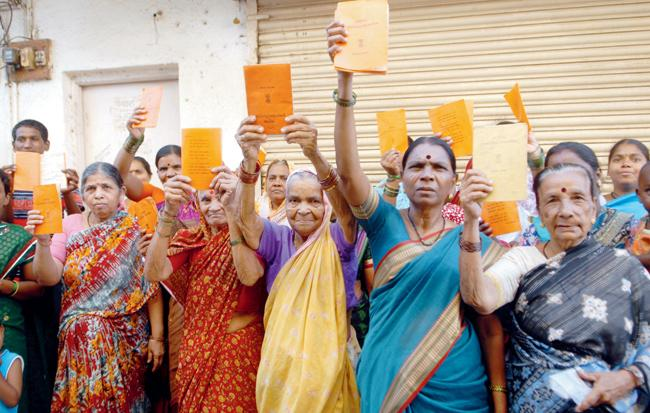
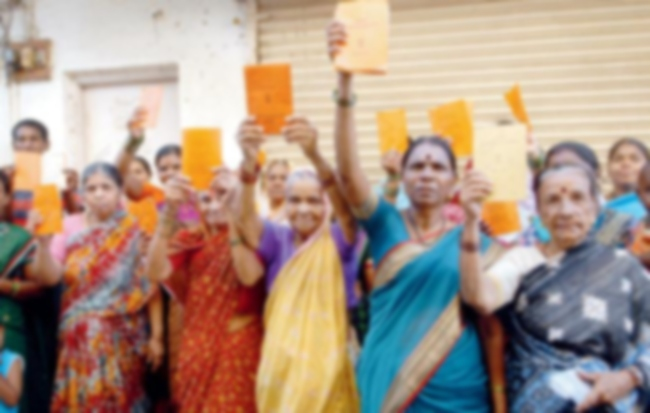
Login CSS done too

diff --git a/frontend/src/Login.css b/frontend/src/Login.css
@@ -1,125 +1,100 @@
-/* Ensure the login container is set up correctly */
-.login-container {
+/* Container for background image */
+.login-background {
+  background-image: url('loginbg.jpg'); /* Replace with the path to your background image */
+  background-size: cover; /* Cover the entire container */
+  background-position: center; /* Center the background image */
+  background-repeat: no-repeat; /* Do not repeat the background image */
+  min-height: 100vh; /* Ensure the container takes up the full viewport height */
   display: flex;
-  flex-direction: column;
-  align-items: center;
   justify-content: center;
-  min-height: 100vh;
-  padding: 5px;
+  align-items: center;
+  padding: 20px;
   box-sizing: border-box;
-  position: relative; /* Needed for absolute positioning of the pseudo-element */
-  overflow: hidden; /* Prevents any overflow of the pseudo-element */
+  position: relative; /* Position relative to use with pseudo-element */
 }
 
-/* Pseudo-element for the blurred background */
-.login-container::before {
+/* Pseudo-element to apply blur to the background */
+.login-background::before {
   content: '';
   position: absolute;
   top: 0;
   left: 0;
   width: 100%;
   height: 100%;
-  background-image: url('loginbg.jpg'); /* Ensure the correct path to your image */
-  background-repeat: no-repeat;
-  background-size: cover;
-  background-position: center;
-  background-attachment: fixed;
-  filter: blur(2px); /* Apply blur effect */
-  z-index: -1; /* Place the pseudo-element behind the content */
+  background: inherit; /* Use the same background image as the container */
+  filter: blur(10px); /* Apply blur effect */
+  z-index: -1; /* Place it behind the content */
 }
 
-/* Card styling */
+/* Styling for the login card */
 .login-card {
-  background: rgba(255, 255, 255, 0.9); /* Semi-transparent white background */
-  border-radius: 8px;
+  background-color: rgba(255, 255, 255, 0.9); /* Semi-transparent white background for readability */
+  border-radius: 10px;
   padding: 20px;
-  box-shadow: 0 4px 8px rgba(0, 0, 0, 0.1);
-  z-index: 1; /* Ensure card is above the blurred background */
+  box-shadow: 0 0 15px rgba(0, 0, 0, 0.3);
   width: 100%;
   max-width: 400px;
   box-sizing: border-box;
-  position: relative; /* Ensure relative positioning for z-index */
-}
-
-/* Styling for heading */
-h2 {
-  color: #007bff;
-  margin-bottom: 20px;
-  text-align: center; /* Center the heading */
-}
-
-/* Form styling */
-form {
   display: flex;
   flex-direction: column;
-  width: 100%;
+  align-items: center; /* Center all items horizontally */
+  justify-content: center; /* Center all items vertically */
+  position: relative; /* Ensure the card stays above the blurred background */
+  z-index: 1; /* Ensure the card is above the blurred background */
 }
 
-/* Styling for form elements */
-div {
-  margin-bottom: 15px;
+/* Header inside the card */
+.login-card h2 {
+  margin: 0 0 20px; /* Adjusted margin for spacing */
+  text-align: center; /* Center the header text */
 }
 
-label {
+/* Label styling */
+.login-card label {
   display: block;
-  margin-bottom: 5px;
+  margin: 15px 0 5px;
   font-weight: bold;
-  color: #333;
+  text-align: center; /* Center the label text */
 }
 
-input[type="text"],
-input[type="password"] {
-  width: 100%;
+/* Input fields styling */
+.login-card input[type="text"],
+.login-card input[type="password"] {
+  width: calc(100% - 20px); /* Ensure inputs fit within the card */
   padding: 10px;
-  border: 1px solid #ced4da;
+  border: 1px solid #ddd;
   border-radius: 5px;
-  font-size: 1rem;
-  box-sizing: border-box;
-  transition: border-color 0.3s ease;
+  margin-bottom: 15px;
+  box-sizing: border-box; /* Include padding and border in element's total width and height */
 }
 
-input[type="text"]:focus,
-input[type="password"]:focus {
-  border-color: #007bff; /* Blue border on focus */
+/* Error message styling */
+.error {
+  color: red;
+  margin-top: 10px;
+  font-weight: bold;
+  text-align: center; /* Center the error message */
 }
 
-button {
-  padding: 15px;
+/* Navigation buttons styling */
+.login-card button {
+  padding: 10px 20px;
   border: none;
   border-radius: 5px;
+  background-color: #007bff;
+  color: #fff;
   cursor: pointer;
-  font-size: 1rem;
-  transition: background-color 0.3s ease, transform 0.3s ease;
-}
-
-button[type="submit"] {
-  background-color: #007bff; /* Blue background */
-  color: white;
+  font-size: 16px;
   margin-top: 10px;
+  display: block;
+  width: 100%; /* Make buttons span the full width of the card */
 }
 
-button[type="submit"]:hover {
-  background-color: #0056b3; /* Darker blue */
-  transform: scale(1.05);
+.login-card button.reset {
+  background-color: #6c757d;
 }
 
-.secondary {
-  background-color: #e9ecef; /* Light gray background */
-  color: #495057;
-  margin: 5px auto; /* Center the button horizontally */
-  display: block; /* Ensure the button is treated as a block element */
-  text-align: center; /* Center the text inside the button */
-}
-
-.secondary:hover {
-  background-color: #ced4da; /* Slightly darker gray */
-}
-
-button:focus {
-  outline: none;
-}
-
-.button-group {
-  display: flex;
-  justify-content: center;
+/* Styling for submit button */
+.login-card button[type="submit"] {
+  background-color: #28a745;
 }

diff --git a/frontend/src/Login.jsx b/frontend/src/Login.jsx
@@ -1,5 +1,5 @@
 import React, { useState, useEffect } from 'react';
-import './Login.css';
+import './Login.css'; // Import the new CSS file
 
 const endpoint = "http://localhost:8000/data"; // Endpoint for fetching data
 
@@ -84,11 +84,10 @@ const LoginPage = () => {
     }
   };
 
-  
-  const handleResetPassword = () => {
-    // Redirect to reset password page or handle reset logic
-    window.location.href = '/reset-password'; // Replace with actual route
-  };
+  // const handleResetPassword = () => {
+  //   // Redirect to reset password page or handle reset logic
+  //   window.location.href = '/reset-password'; // Replace with actual route
+  // };
 
   const handleSignupRedirect = () => {
     // Redirect to signup page
@@ -96,42 +95,44 @@ const LoginPage = () => {
   };
 
   return (
-    <div>
-      <h2>Login</h2>
-      <form onSubmit={handleLogin}>
+    <div className="login-background">
+      <div className="login-card">
+        <h2>Login</h2>
+        <form onSubmit={handleLogin}>
+          <div>
+            <label htmlFor="rationCardNumber">Ration Card Number:</label>
+            <input
+              type="text"
+              id="rationCardNumber"
+              name="rationCardNumber"
+              placeholder="Enter your Ration Card Number"
+              value={rationCardNumber}
+              onChange={(e) => setRationCardNumber(e.target.value)}
+              required
+            />
+          </div>
+          <div>
+            <label htmlFor="password">Password:</label>
+            <input
+              type="password"
+              id="password"
+              name="password"
+              placeholder="Enter your Password"
+              value={password}
+              onChange={(e) => setPassword(e.target.value)}
+              required
+            />
+          </div>
+          <button type="submit">Login</button>
+        </form>
         <div>
-          <label htmlFor="rationCardNumber">Ration Card Number:</label>
-          <input
-            type="text"
-            id="rationCardNumber"
-            name="rationCardNumber"
-            placeholder="Enter your Ration Card Number"
-            value={rationCardNumber}
-            onChange={(e) => setRationCardNumber(e.target.value)}
-            required
-          />
+          {/* <button onClick={handleResetPassword}>Reset Password</button> */}
+          <button onClick={handleSignupRedirect}>Register</button>
         </div>
-        <div>
-          <label htmlFor="password">Password:</label>
-          <input
-            type="password"
-            id="password"
-            name="password"
-            placeholder="Enter your Password"
-            value={password}
-            onChange={(e) => setPassword(e.target.value)}
-            required
-          />
+        <div id="content">
+          {/* Render fetched data here */}
+          {data ? <pre>{JSON.stringify(data, null, 2)}</pre> : 'Loading data...'}
         </div>
-        <button type="submit">Login</button>
-      </form>
-      <div>
-        <button onClick={handleResetPassword}>Reset Password</button>
-        <button onClick={handleSignupRedirect}>Signup</button>
-      </div>
-      <div id="content">
-        {/* Render fetched data here */}
-        {data ? <pre>{JSON.stringify(data, null, 2)}</pre> : 'Loading data...'}
       </div>
     </div>
   );
